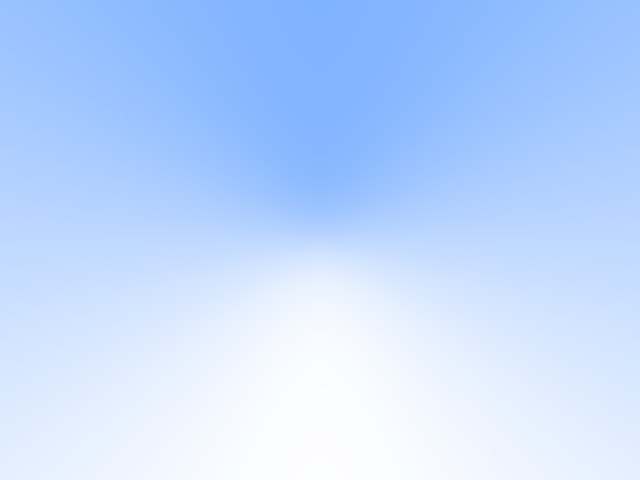
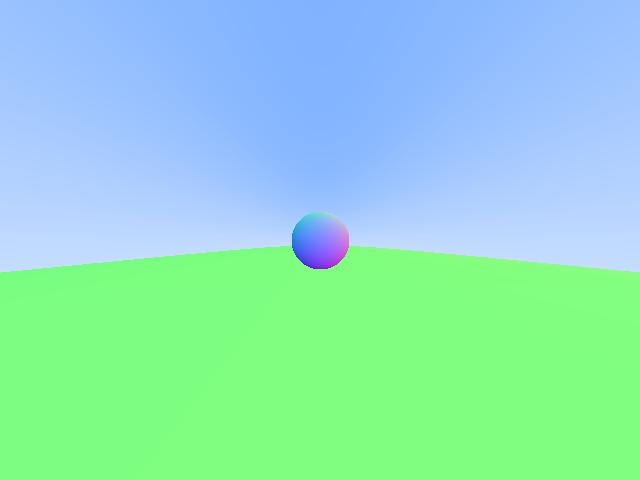
Some more spheres and virtual function magic I guess

diff --git a/src/main.cpp b/src/main.cpp
@@ -45,7 +45,7 @@ ScopeExit<F> MakeScopeExit(F f) {
     auto CONCAT(scope_exit_, __LINE__) = MakeScopeExit([=](){code;})
 
 template<typename T>
-static inline T*
+static T*
 allocate(size_t count) {
     return (T*)calloc(count, sizeof(T));
 }
@@ -56,14 +56,47 @@ const int HEIGHT = 480;
 typedef hmm_vec3 Vec3;
 typedef hmm_vec4 Vec4;
 
-static inline Vec3
+static Vec3
 vec3(f32 a, f32 b, f32 c) {
     return HMM_Vec3(a, b, c);
 }
 
-static inline Vec4
+static Vec4
 vec4(f32 a, f32 b, f32 c, f32 d) {
     return HMM_Vec4(a, b, c, d);
+}
+
+
+struct Color32 {
+    u32 value;
+};
+
+typedef Vec3 Color;
+
+static Color
+makeColor(f32 r, f32 g, f32 b) {
+    return vec3(r, g, b);
+}
+
+static Color32
+makeColor32(u8 r, u8 g, u8 b, u8 a = 255) {
+    Color32 result;
+    //result.value = (r << 24) + (g << 16) + (b << 8) + (a << 0);
+    result.value = (a << 24) + (b << 16) + (g << 8) + (r << 0);
+    return result;
+}
+
+static Color32
+makeColor32(Color color) {
+    Color32 result;
+    result = makeColor32(color.r * 255, color.g * 255, color.b * 255);
+    return result;
+}
+
+static void
+setPixelColor(Color32* pixels, i32 x, i32 y, Color color) {
+    Color32 color32 = makeColor32(color);
+    pixels[y * WIDTH + x] = color32;
 }
 
 struct Ray {
@@ -72,48 +105,95 @@ struct Ray {
 
     Ray(Vec3 o, Vec3 d) : o(o), d(d) { }
 
-    Vec3 t(float t) {
+    Vec3 t(float t) const {
         return o + t*d;
     }
 };
 
-struct Color32 {
-    u32 value;
+struct HitInfo {
+    f32 t;
+    Vec3 point;
+    Vec3 normal;
 };
 
-typedef Vec3 Color;
+struct Hittable {
+    virtual bool hit(const Ray& ray, f32 tMin, f32 tMax, HitInfo& info) const = 0;
+};
 
-static inline Color
-makeColor(f32 r, f32 g, f32 b) {
-    return vec3(r, g, b);
-}
+struct Sphere : public Hittable {
+    Vec3 center;
+    f32 radius;
 
-static inline Color32
-makeColor32(u8 r, u8 g, u8 b, u8 a = 255) {
-    Color32 result;
-    //result.value = (r << 24) + (g << 16) + (b << 8) + (a << 0);
-    result.value = (a << 24) + (b << 16) + (g << 8) + (r << 0);
-    return result;
-}
+    Sphere() { }
+    Sphere(Vec3 center, f32 radius)
+        : center(center), radius(radius)
+    {
+    }
 
-static inline Color32
-makeColor32(Color color) {
-    Color32 result;
-    result = makeColor32(color.r * 255, color.g * 255, color.b * 255);
-    return result;
-}
+    virtual bool
+    hit(const Ray& ray, f32 tMin, f32 tMax, HitInfo& info) const {
+        Vec3 oc = ray.o - center;
+        f32 a = HMM_Dot(ray.d, ray.d);
+        f32 b = HMM_Dot(oc, ray.d);
+        f32 c = HMM_Dot(oc, oc) - radius*radius;
+        f32 discriminant = b*b - a*c;
+        if (discriminant > 0) {
+            f32 temp = (-b - sqrt(b*b-a*c))/a;
+            if (temp < tMax && temp > tMin) {
+                info.t = temp;
+                info.point = ray.t(info.t);
+                info.normal = (info.point - center) / radius;
+                return true;
+            }
+            temp = (-b + sqrt(b*b-a*c))/a;
+            if (temp < tMax && temp > tMin) {
+                info.t = temp;
+                info.point = ray.t(info.t);
+                info.normal = (info.point - center) / radius;
+                return true;
+            }
+        }
+        return false;
+    }
+};
 
-static inline void
-setPixelColor(Color32* pixels, i32 x, i32 y, Color color) {
-    Color32 color32 = makeColor32(color);
-    pixels[y * WIDTH + x] = color32;
-}
+struct HittableList : public Hittable {
+    Hittable** list;
+    size_t listSize;
+
+    HittableList() { }
+    HittableList(Hittable** _list, size_t size)
+    {
+        list = _list;
+        listSize = size;
+    }
+
+    virtual bool
+    hit(const Ray& ray, f32 tMin, f32 tMax, HitInfo& info) const {
+        HitInfo tempInfo;
+        bool hitSomething = false;
+        f64 closestSoFar = tMax;
+        for (int i = 0; i < listSize; i++) {
+            if (list[i]->hit(ray, tMin, closestSoFar, tempInfo)) {
+                hitSomething = true;
+                closestSoFar = tempInfo.t;
+                info = tempInfo;
+            }
+        }
+        return hitSomething;
+    }
+};
 
 static Color
-colorFromRay(Ray& ray) {
-    Vec3 normalizedDirection = HMM_FastNormalize(ray.d);
-    f32 t = 0.5f * (normalizedDirection.y + 1.0f);
-    return (1.0f-t)*vec3(1.0f, 1.0f, 1.0f) + t*vec3(0.5f, 0.7f, 1.0f);
+colorFromRay(Ray& ray, Hittable* world) {
+    HitInfo info;
+    if (world->hit(ray, 0, MAXFLOAT, info)) {
+        return 0.5f*vec3(info.normal.x+1, info.normal.y+1, info.normal.z+1);
+    } else {
+        Vec3 unitDirection = HMM_FastNormalize(ray.d);
+        f32 t = 0.5f * (unitDirection.y + 1.0f);
+        return (1.0f-t)*vec3(1.0f, 1.0f, 1.0f) + t*vec3(0.5f, 0.7f, 1.0f);
+    }
 }
 
 static void
@@ -128,13 +208,19 @@ renderPixels(Color32* pixels) {
     Vec3 vertical = vec3(0, h*2, 0);
     Vec3 origin = vec3(0, 0, 0);
 
-    for(i32 y = 0; y < HEIGHT; y++) {
-        for(i32 x = 0; x < WIDTH; x++) {
+    Hittable* list[2];
+    list[0] = new Sphere(vec3(0,0,-1), 0.5);
+    list[1] = new Sphere(vec3(0,-100.5, -1), 100);
+
+    Hittable* world = new HittableList(list, 2);
+
+    for (i32 y = 0; y < HEIGHT; y++) {
+        for (i32 x = 0; x < WIDTH; x++) {
             f32 u =       (f32)x / (f32)WIDTH;
             f32 v = 1.0 - (f32)y / (f32)HEIGHT; // Flipping the V so we go from bottom to top
 
             Ray r = Ray(origin, lowerLeftCorner + u*horizontal + v*vertical);
-            Color color = colorFromRay(r);
+            Color color = colorFromRay(r, world);
             setPixelColor(pixels, x, y, color);
         }
     }
